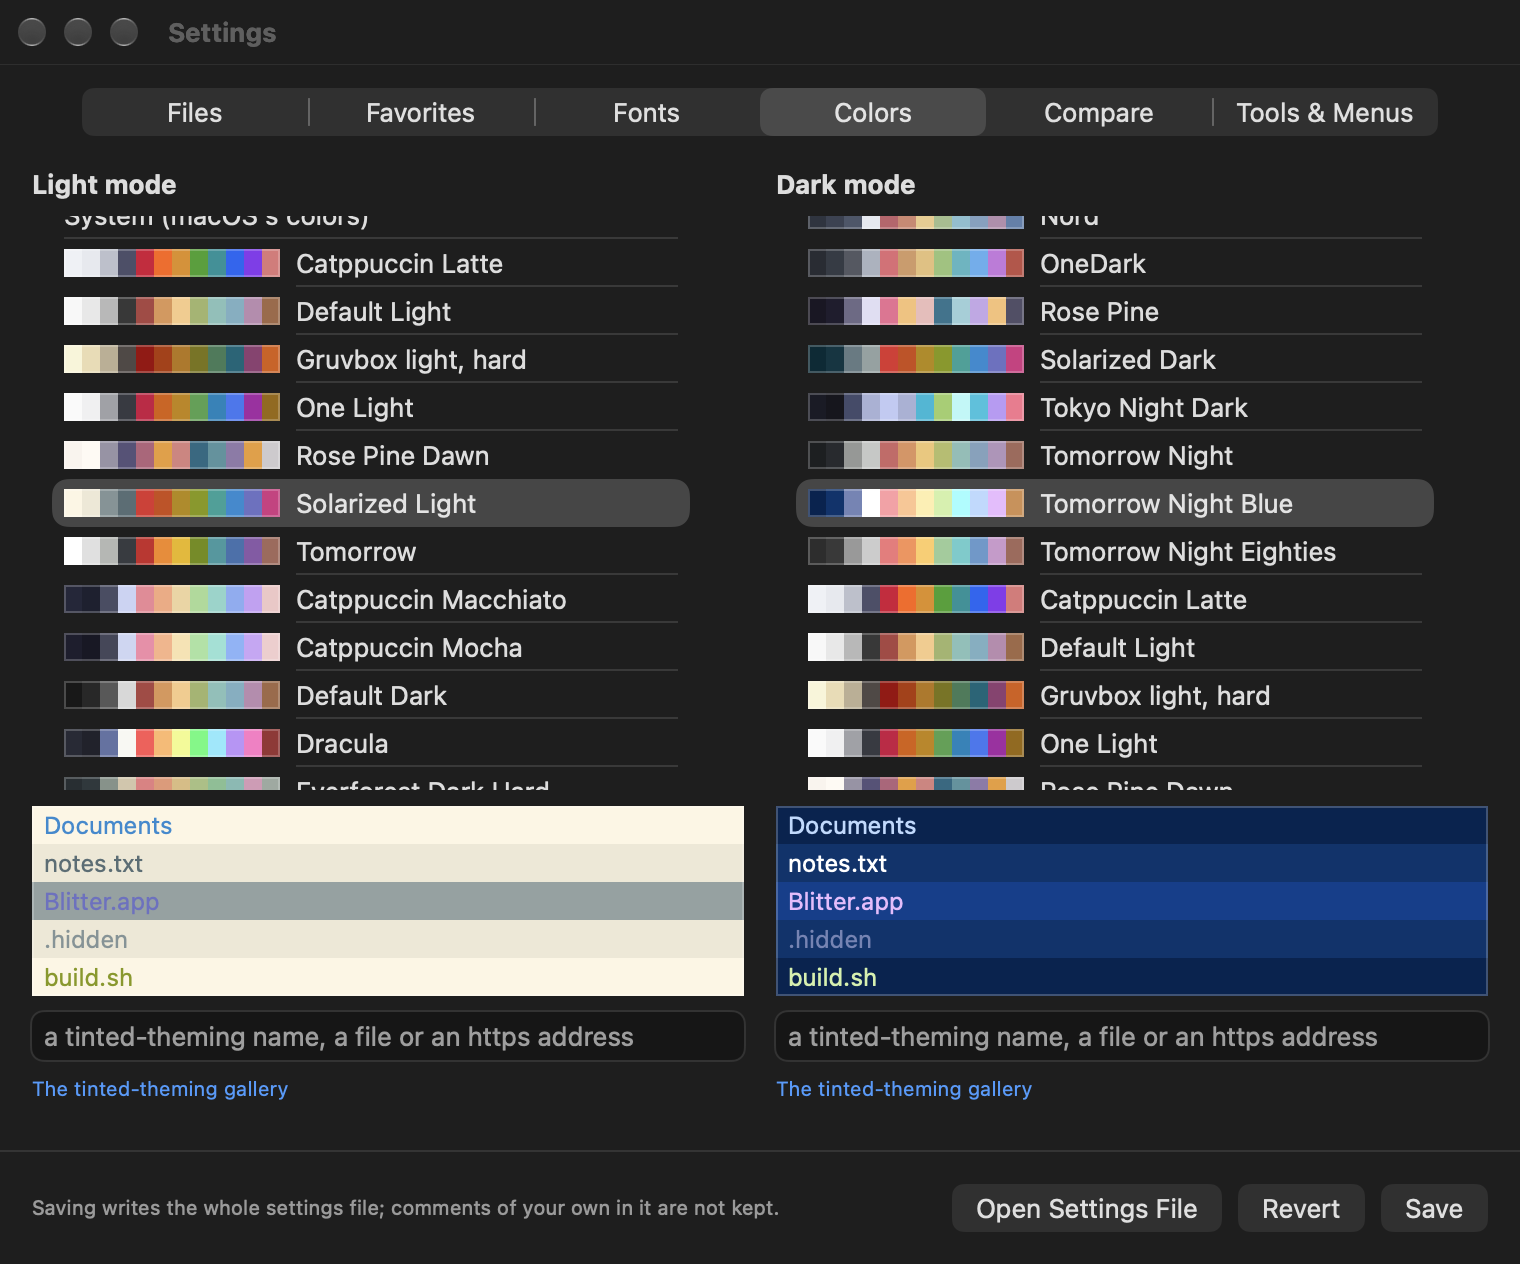
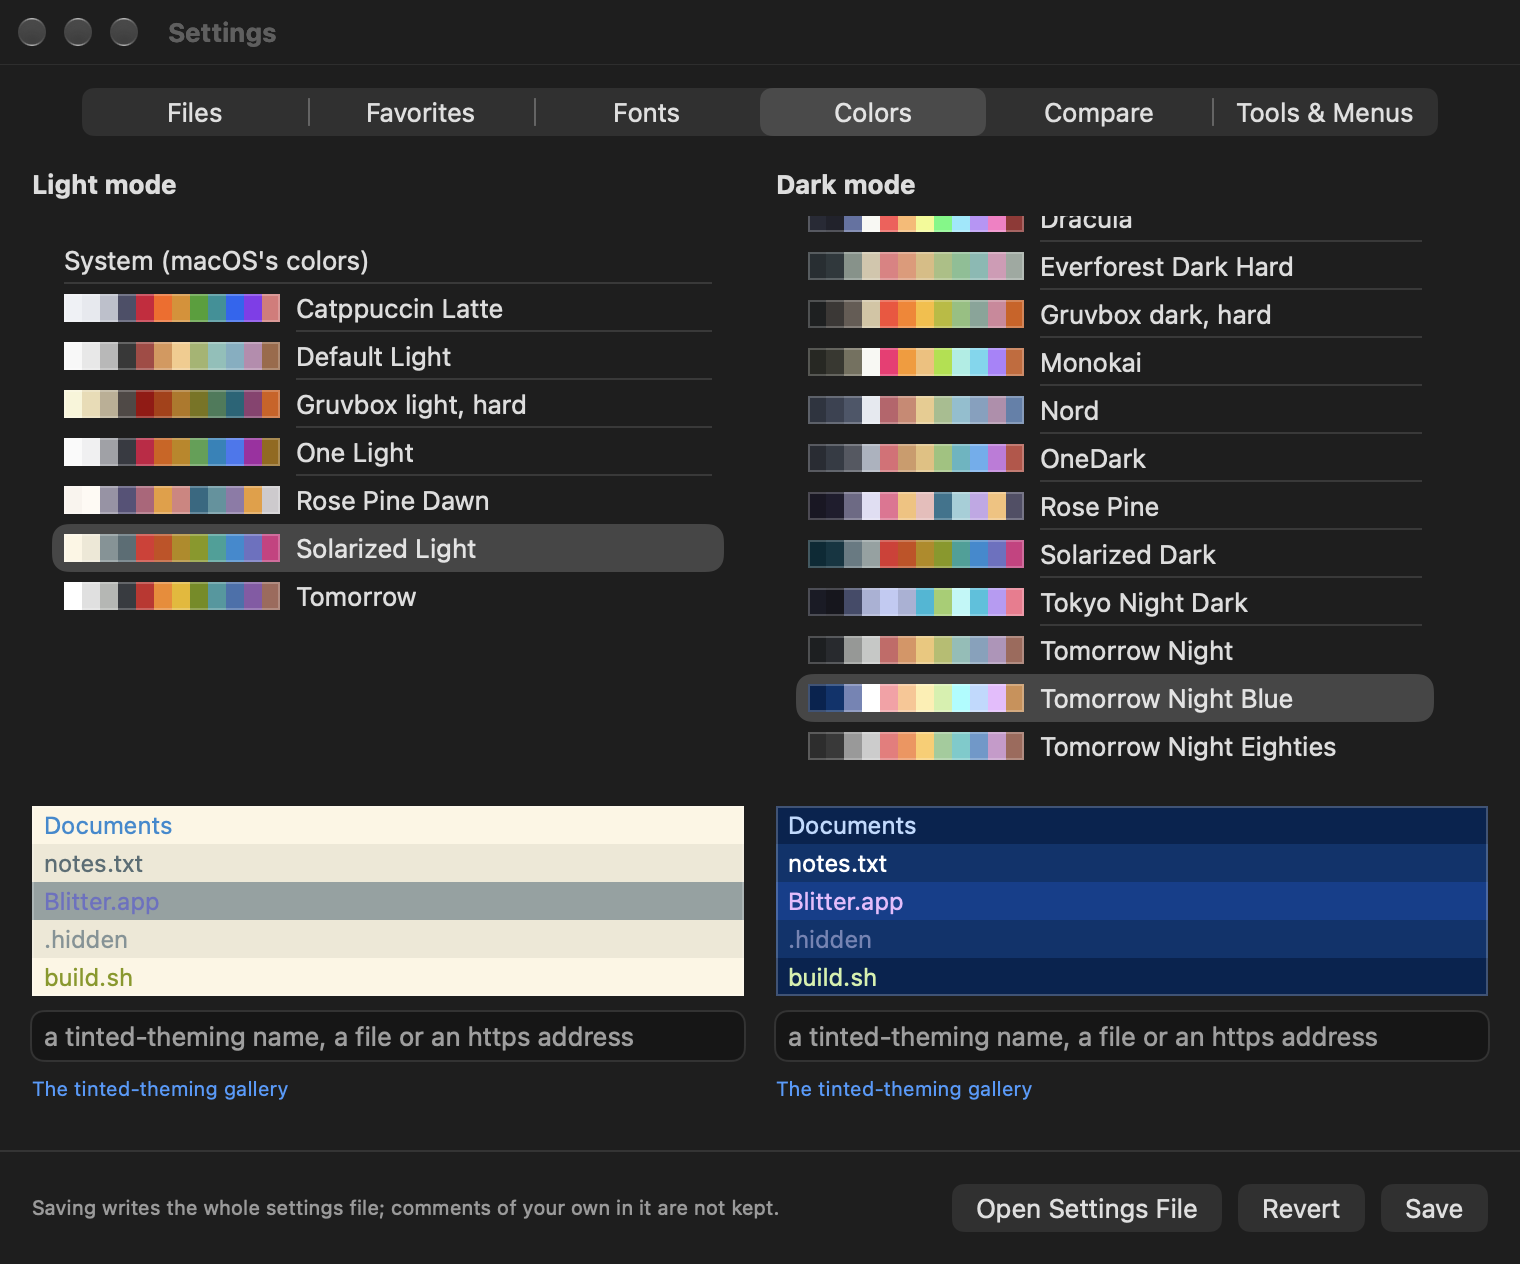
Colors tab: each mode lists only its own schemes
The light mode's list shows the light built-in schemes, the dark mode's
the dark ones. A scheme the file sets for the other mode stays listed,
so the choice is always visible.

Fixes #78

Changed region(s): [[0.5257, 0.1543, 0.9586, 0.6479], [0.0309, 0.1543, 0.4947, 0.6479]]

diff --git a/Sources/BlitterApp/SettingsColors.swift b/Sources/BlitterApp/SettingsColors.swift
@@ -10,25 +10,21 @@ struct ColorSettings: View {
 
     var body: some View {
         HStack(alignment: .top, spacing: 16) {
-            SchemeChooser(title: "Light mode", name: $theme.light, darkFirst: false, theme: theme)
-            SchemeChooser(title: "Dark mode", name: $theme.dark, darkFirst: true, theme: theme)
+            SchemeChooser(title: "Light mode", name: $theme.light, isDark: false, theme: theme)
+            SchemeChooser(title: "Dark mode", name: $theme.dark, isDark: true, theme: theme)
         }
         .padding()
     }
 }
 
-/// One mode's scheme: System, then the built-in schemes of that mode, then the others.
+/// One mode's scheme: System, then the built-in schemes of that mode (#78).
 struct SchemeChooser: View {
     let title: String
     @Binding var name: String
-    let darkFirst: Bool
+    let isDark: Bool
     /// For the roles, and the settings' own schemes, which win over built-in ones of the same name.
     let theme: ThemeSettings
     @State private var other = ""
-
-    private var builtIn: [BuiltInScheme] {
-        BuiltInScheme.all.filter { $0.isDark == darkFirst } + BuiltInScheme.all.filter { $0.isDark != darkFirst }
-    }
 
     var body: some View {
         VStack(alignment: .leading, spacing: 8) {
@@ -36,7 +32,7 @@ struct SchemeChooser: View {
             ScrollViewReader { scroller in
                 List(selection: Binding<String?>(get: { name }, set: { $0.map { name = $0 } })) {
                     Text("System (macOS's colors)").tag("system").id("system")
-                    ForEach(builtIn) { scheme in
+                    ForEach(BuiltInScheme.choices(dark: isDark, chosen: name)) { scheme in
                         HStack {
                             Swatches(scheme: theme.scheme(named: scheme.id) ?? scheme.scheme)
                             Text(scheme.title)

diff --git a/Tests/BlitterModelTests/BuiltInSchemesTests.swift b/Tests/BlitterModelTests/BuiltInSchemesTests.swift
@@ -22,6 +22,18 @@ struct BuiltInSchemesTests {
         #expect(darkOnes)
     }
 
+    /// #78: each mode's list has only that mode's schemes, and the chosen one wherever it is from.
+    @Test func eachModeListsItsOwnSchemesAndTheChosenOne() {
+        let lights = BuiltInScheme.choices(dark: false, chosen: "system")
+        let darks = BuiltInScheme.choices(dark: true, chosen: "nord")
+        #expect(!lights.isEmpty && lights.allSatisfy { !$0.isDark })
+        #expect(!darks.isEmpty && darks.allSatisfy(\.isDark))
+        #expect(lights.count + darks.count == BuiltInScheme.all.count)
+        // A light scheme the file sets for dark mode is in the dark list too.
+        let mixed = BuiltInScheme.choices(dark: true, chosen: "rose-pine-dawn")
+        #expect(mixed.count == darks.count + 1 && mixed.contains { $0.id == "rose-pine-dawn" })
+    }
+
     /// A built-in name in the settings file is resolved at once: no download, no problem.
     @Test func aBuiltInNameNeedsNoDownload() async {
         var settings = Settings()

diff --git a/Sources/BlitterModel/BuiltInSchemes.swift b/Sources/BlitterModel/BuiltInSchemes.swift
@@ -12,6 +12,12 @@ public struct BuiltInScheme: Sendable, Identifiable {
 }
 
 public extension BuiltInScheme {
+    /// What a mode's list offers (#78): that mode's schemes only, and the chosen one even if it is
+    /// the other mode's (set so in the file), so the choice is never out of sight.
+    static func choices(dark isDark: Bool, chosen: String) -> [BuiltInScheme] {
+        all.filter { $0.isDark == isDark || $0.id == chosen }
+    }
+
     // swiftlint:disable force_unwrapping
     /// Light schemes and dark schemes, each by title.
     static let all: [BuiltInScheme] = [

diff --git a/docs/manual/settings.md b/docs/manual/settings.md
@@ -69,8 +69,9 @@ colors, and the chosen one shows a few rows of a list as Blitter will draw them.
 macOS's own colors.
 
 - **Built in:** 22 schemes, among them Tomorrow Night Blue, Nord, Dracula, Gruvbox, Catppuccin,
-  Rosé Pine, One Dark and Solarized. The light ones come first in the light mode's list, the dark
-  ones in the dark mode's.
+  Rosé Pine, One Dark and Solarized. The light mode's list shows the light ones, the dark mode's
+  the dark ones. A scheme the file sets for the other mode (say, a light one for dark mode) is
+  still shown in that list, so you can see what is chosen.
 - **Other:** type the name of any scheme of the
   [tinted-theming collection](https://tinted-theming.github.io/tinted-gallery/) (e.g.
   `gruvbox-material-dark-hard`; it is downloaded once and kept in the `schemes` folder next to the
